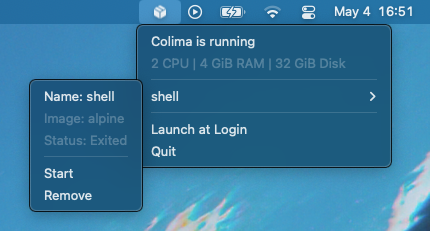
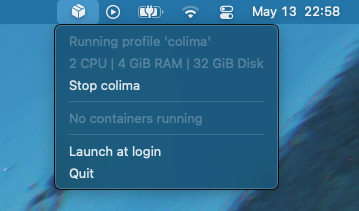
Ditch the restricted mode
Manpage kinda discourages it

diff --git a/src/ColimaStatusBar/Framework/ProcessRunner.cs b/src/ColimaStatusBar/Framework/ProcessRunner.cs
@@ -13,7 +13,7 @@ public static class ProcessRunner
         var processInfo = new ProcessStartInfo
         {
             FileName = Shell,
-            Arguments = $"-r --login -c \"{executable} {string.Join(" ", args)}\"",
+            Arguments = $"--login -c \"{executable} {string.Join(" ", args)}\"",
             UseShellExecute = false,
             CreateNoWindow = true,
             RedirectStandardOutput = true,

diff --git a/README.md b/README.md
@@ -1,18 +1,28 @@
+![Screenshot](doc/screenshot.png)
+
+---
+
+[![Install via Homebrew](https://img.shields.io/badge/homebrew-phkiener%2Fpersonal%2Fcolima--status--bar-orange?style=for-the-badge)](https://github.com/phkiener/homebrew-personal/blob/main/Casks/colima-status-bar.rb)
+&nbsp;
+![X-Clacks-Overhead "GNU Terry Pratchett"](https://img.shields.io/badge/this%20is-a%20badge!-blue?style=for-the-badge)
+
+---
+
 # Colima StatusBar
 
 A small menubar widget to show the status of [colima](https://github.com/abiosoft/colima).
 Nothing too fancy, really.
 
-![Screenshot](doc/screenshot.png)
-
 ## Installation
 
-Either download the latest [GitHub Release](https://github.com/phkiener/ColimaStatusBar/releases/)
-and extract the `.app` bundle yourself or use homebrew:
+Either download the latest [GitHub Release](https://github.com/phkiener/ColimaStatusBar/releases/) and extract the `.app` bundle yourself
+... or use homebrew!
 
 ```sh
 brew install phkiener/personal/colima-status-bar
 ```
 
-Note that `colima` is being invoked via your `$SHELL`, defaulting to `/bin/zsh`.
-If it doesn't work, your shell does not support the flags that are being passed... sorry.
+## Requirements
+
+`colima` is being invoked via your `$SHELL`, defaulting to `/bin/zsh`. Next to the command, the `--login` flag is passed as well to make sure that
+e.g. your `homebrew`-path is available. If your shell doesn't support that... you're outta luck, sorry.
